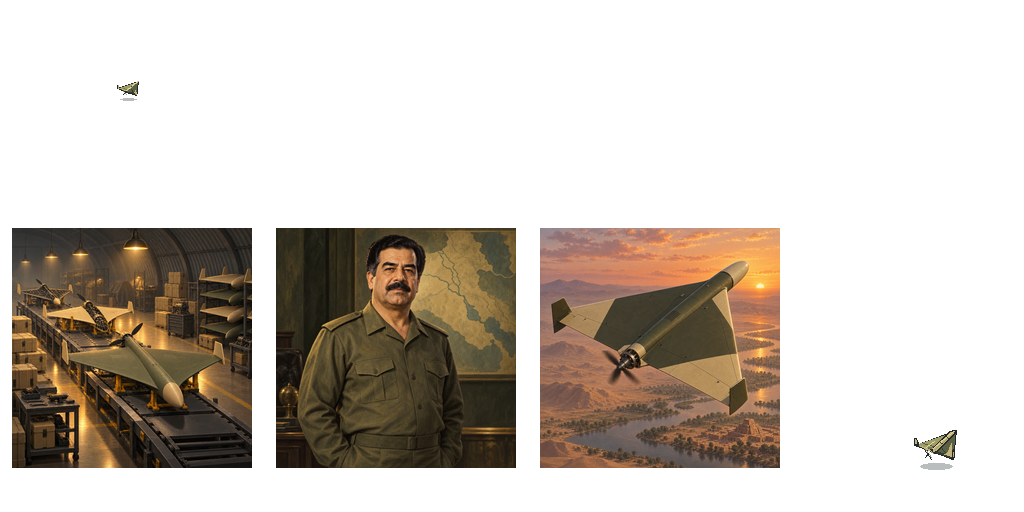
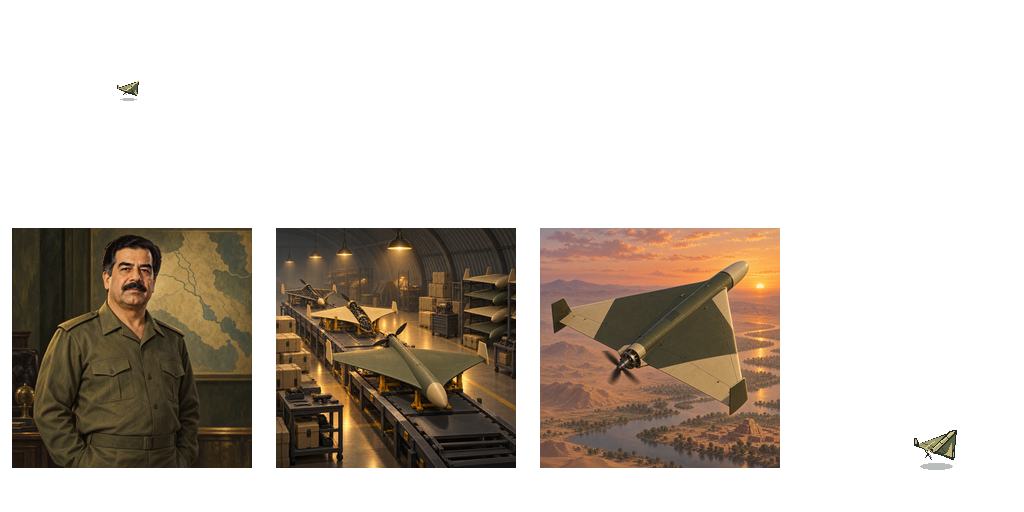
Make the whole mod Russian-only
- All mod object names and texts are written in Russian directly in the
  rulesets (nation, leader, city and spy names, intro and diplomacy
  lines, units, buildings, resources, descriptions), so they no longer
  depend on the game language or on mod translation loading
- Rename images and their sources to the Russian object names, repack
  the atlas; drop the now unused Russian.properties
- README and Credits in Russian
- check_mod: force a repack when atlas regions no longer match Images/
  (renames keep mtimes, so Unciv's packer skipped them); non-ASCII image
  names are a warning, the atlas must be valid UTF-8

Changed region(s): [[0.0, 0.4375, 0.5312, 0.9375]]

diff --git a/tools/check_mod.py b/tools/check_mod.py
@@ -246,20 +246,29 @@ def check_text_files() -> int:
         errors += 1
 
     image_dirs = sorted(p for p in REPO_ROOT.iterdir() if p.is_dir() and re.fullmatch(r"Images(\..+)?", p.name))
-    image_count = 0
+    image_count, non_ascii = 0, []
     for image_dir in image_dirs:
         for path in sorted(image_dir.rglob("*")):
             if not path.is_file():
                 continue
             name = rel(path)
             if not name.isascii():
-                LOG.error("%s: non-ASCII path, the texture packer/atlas requires ASCII-only names", name)
-                errors += 1
+                non_ascii.append(name)
             if path.suffix.lower() in IMAGE_EXTENSIONS:
                 image_count += 1
             elif path.name != "TexturePacker.settings":
                 LOG.warning("%s: not an image, the packer ignores it", name)
     LOG.info("Found %d image(s) in %s", image_count, [p.name for p in image_dirs] or "no Images folder")
+    # The mod is Russian-only by design, so object (= image) names are Cyrillic. Unciv docs advise ASCII
+    # because some desktop locales read atlases in a non-UTF-8 charset; Android always uses UTF-8.
+    if non_ascii:
+        LOG.warning("%d image path(s) are non-ASCII (e.g. %s): fine on Android, desktop players need a UTF-8 "
+                    "locale; the packed atlas must be UTF-8 (checked below)", len(non_ascii), non_ascii[0])
+    for atlas in sorted(REPO_ROOT.glob("*.atlas")):
+        if read_utf8_no_bom(atlas) is None:
+            errors += 1
+        else:
+            LOG.debug("%s: valid UTF-8", rel(atlas))
     return errors
 
 
@@ -362,6 +371,29 @@ def ensure_unciv_jar(version: str | None, offline: bool) -> Path:
 
 # --------------------------------------------------------------------------- step 4: mod-ci
 
+def invalidate_stale_atlas() -> None:
+    """Unciv's packer only compares modification times, so renamed or deleted images leave a stale
+    game.atlas behind. Compare region names with the files in Images/ and force a repack on mismatch."""
+    images, atlas = REPO_ROOT / "Images", REPO_ROOT / "game.atlas"
+    if not images.is_dir() or not atlas.is_file():
+        LOG.debug("Atlas freshness check skipped (Images/ or game.atlas missing)")
+        return
+    expected = {p.relative_to(images).with_suffix("").as_posix() for p in images.rglob("*")
+                if p.is_file() and p.suffix.lower() in IMAGE_EXTENSIONS}
+    text = atlas.read_text(encoding="utf-8", errors="replace").splitlines()
+    packed = {line.strip() for line in text
+              if line.strip() and not line.startswith((" ", "\t")) and ":" not in line and not line.endswith(".png")}
+    if expected == packed:
+        LOG.info("game.atlas lists the same %d image(s) as Images/: no forced repack", len(packed))
+        return
+    LOG.warning("game.atlas is stale: %d image(s) missing from it %s, %d no longer in Images/ %s; deleting "
+                "game.atlas and game*.png to force a repack", len(expected - packed), sorted(expected - packed)[:5],
+                len(packed - expected), sorted(packed - expected)[:5])
+    for path in [atlas, *REPO_ROOT.glob("game*.png")]:
+        path.unlink()
+        LOG.info("Deleted %s", rel(path))
+
+
 def run_mod_ci(jar: Path, allow_warnings: bool) -> int:
     LOG.info("Step 4/5: running Unciv mod-ci (pack images + autoupdate uniques + validate ruleset)")
     java = shutil.which("java")
@@ -372,6 +404,7 @@ def run_mod_ci(jar: Path, allow_warnings: bool) -> int:
 
     has_git = shutil.which("git") is not None
     before = git_status_snapshot() if has_git else set()
+    invalidate_stale_atlas()
 
     # Force UTF-8 console output, otherwise Windows code pages turn Unciv's bracket glyphs into '?'
     cmd = [java, "-Dstdout.encoding=UTF-8", "-Dstderr.encoding=UTF-8", "-jar", str(jar), "mod-ci"]

diff --git a/README.md b/README.md
@@ -1,6 +1,7 @@
-# mod-Unciv
+# Кальянная и Шахеды — мод для Unciv
 
 Мод для [Unciv](https://github.com/yairm210/Unciv) — open-source ремейка Civilization V.
+Весь мод на русском языке.
 
 ## Кальянная
 
@@ -14,10 +15,6 @@
 - Кальянами можно торговать в дипломатии, как железом или лошадьми: сделка идёт
   30 ходов, на это время счастье переходит к партнёру. ИИ покупает кальян за 100
   золота (если у него меньше двух) и продаёт по 50 за штуку.
-
-*Hookah Lounge: a building available to every civilization from the start. It can be
-built in the same city again and again; each one permanently adds a Hookah worth
-+1 Happiness. Hookahs can be traded like any strategic resource.*
 
 ## Шахеды
 
@@ -38,9 +35,6 @@ built in the same city again and again; each one permanently adds a Hookah worth
 Особое здание **Сборочный цех** (вместо мастерской): +3 производства вместо +2,
 новые боевые юниты сразу получают 10 опыта.
 
-*Shaheds: a new civilization led by Saddam Hussein — cheap expendable drones,
-cheaper armies, gold for kills and for every unit lost in battle.*
-
 ## Установка на Android
 
 1. Установите Unciv (Google Play, F-Droid или `Unciv-signed.apk` из
@@ -50,22 +44,19 @@ cheaper armies, gold for kills and for every unit lost in battle.*
 4. Новая игра: **«Начать новую игру»** → **«Моды-расширения»** → отметьте мод.
 
 Обновление: «Моды» → **«Обновить [мод]»** (или удалить и скачать заново).
-
-## Installation (English)
-
-Main menu → **Mods** → **Download mod from URL** → `https://github.com/MASHINKA34/mod-Unciv`.
-Then enable it under **Extension mods** when starting a new game.
+Описания стандартных механик игра показывает на языке своих настроек — для
+полностью русского текста выберите в Unciv «Настройки» → «Язык» → «Русский».
 
 ## Разработка
 
-- Проверка и упаковка картинок (нужны Python 3 и Java 21):
+Проверка и упаковка картинок (нужны Python 3 и Java 21):
 
-  ```
-  python tools/check_mod.py
-  ```
+```
+python tools/check_mod.py
+```
 
-  Android не умеет упаковывать картинки, поэтому `game.atlas`, `game*.png` и
-  `Atlases.json` собираются этой командой и коммитятся в репозиторий.
+Android не умеет упаковывать картинки, поэтому `game.atlas`, `game*.png` и
+`Atlases.json` собираются этой командой и коммитятся в репозиторий.
 
 ## Авторы
 

diff --git a/Credits.md b/Credits.md
@@ -1,19 +1,20 @@
-# Credits
+# Авторы
 
-- Mod: [MASHINKA34](https://github.com/MASHINKA34)
-- Game: [Unciv](https://github.com/yairm210/Unciv) by yairm210 and contributors
+- Мод: [MASHINKA34](https://github.com/MASHINKA34)
+- Игра: [Unciv](https://github.com/yairm210/Unciv) — yairm210 и участники проекта
 
-## Images
+## Картинки
 
-<!-- Add every image here: file, author/tool, licence. -->
-- `Images/BuildingIcons/Hookah Lounge.png`, `Images/ResourceIcons/Hookah.png`,
-  `Images/ResourceIcons/Hookahs.png` —
-  original icons made for this mod by MASHINKA34 (sources in `art-src/`).
-- Shaheds: `Images/NationIcons/Shaheds.png`, `Images/UnitIcons/Shahed Drone.png`,
-  `Images/BuildingIcons/Assembly Shop.png`, unit sprites in `Images/TileSets/`,
-  portraits in `Images/UnitPortraits/`, `Images/BuildingPortraits/`, `Images/LeaderIcons/`,
-  and `preview.png` — original art made for this mod by MASHINKA34 (sources in `art-src/`).
+Вся графика нарисована специально для этого мода, автор — MASHINKA34
+(исходники в `art-src/`):
 
-## Sounds
+- Кальянная: `Images/BuildingIcons/Кальянная.png`, `Images/ResourceIcons/Кальян.png`,
+  `Images/ResourceIcons/Кальяны.png`.
+- Шахеды: `Images/NationIcons/Шахеды.png`, `Images/UnitIcons/Шахед.png`,
+  `Images/BuildingIcons/Сборочный цех.png`, спрайты дрона в `Images/TileSets/`,
+  портреты в `Images/UnitPortraits/`, `Images/BuildingPortraits/`, `Images/LeaderIcons/`.
+- Обложка мода: `preview.png`.
 
-<!-- Add every sound/music file here: file, author, licence. -->
+## Звуки
+
+Используются стандартные звуки игры.
